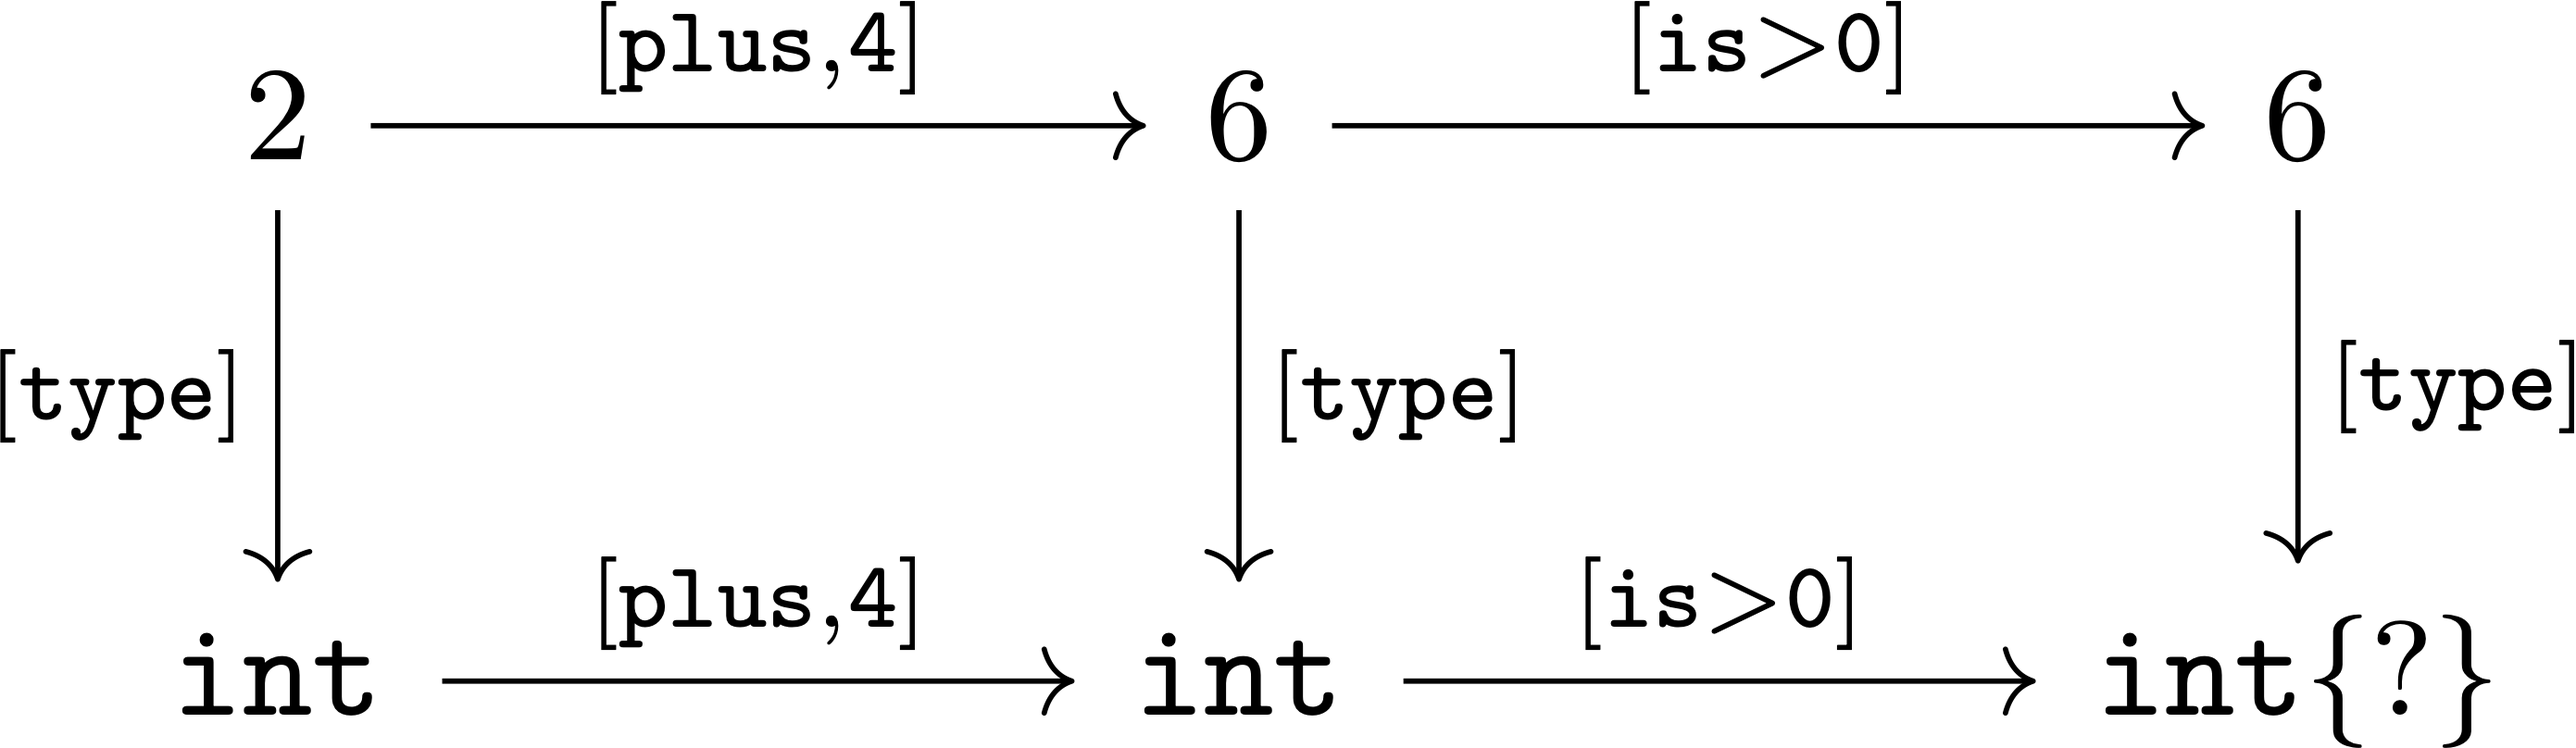
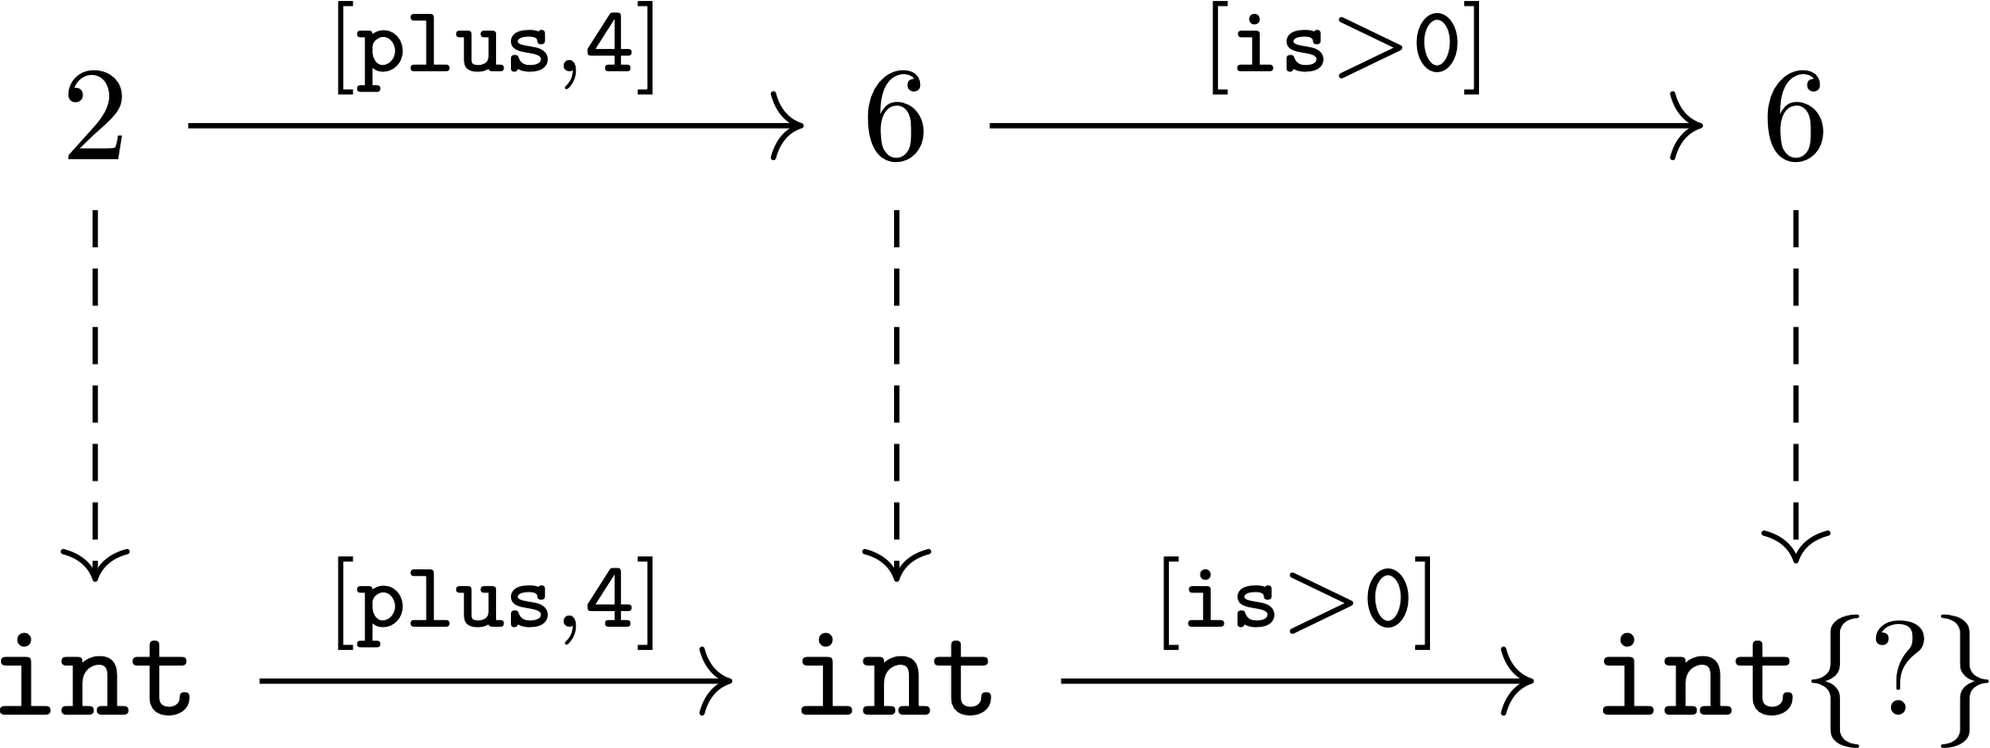
documentation deployed to gh-pages

diff --git a/index.html b/index.html
@@ -1301,7 +1301,7 @@ mmlang&gt; 2[plus,4][is&gt;0][type]
 <i class="fa icon-note" title="Note"></i>
 </td>
 <td class="content">
-<span class="image right"><img src="./images/language/type-value-trace-short.png" alt="type value trace short" width="400"></span> In the diagram above, the type vertices are elements of a <a href="https://en.wikipedia.org/wiki/Free_algebra">free algebra</a> called the <code>inst</code> monoid. However, in order to present more complex <a href="https://en.wikipedia.org/wiki/Commutative_diagram">diagrams</a>, vertex labels can be shortened to type&#8217;s canonical range type. With this convention, there is no loss of information. The full definition can be unambiguously deduced by concatenating the instructions encountered on the edges of the inverted path from the current <em>range</em> vertex to the root <em>domain</em> vertex (i.e. the base canonical type of the type induction). The above diagram&#8217;s more concise representation is on the right. All subsequent diagrams will follow this convention.
+<span class="image right"><img src="./images/language/type-value-trace-short.png" alt="type value trace short" width="300"></span> In the diagram above, the type vertices are elements of a <a href="https://en.wikipedia.org/wiki/Free_algebra">free algebra</a> called the <code>inst</code> monoid. However, in order to present more complex <a href="https://en.wikipedia.org/wiki/Commutative_diagram">diagrams</a>, vertex labels will be shortened to the type&#8217;s canonical range type. With this convention, there is no loss of information. The full definition can be unambiguously determined by concatenating the instructions encountered on the edges of the inverted path from the current <em>range</em> vertex to the root <em>domain</em> vertex (i.e. the base canonical type of the type induction). Furthermore, dashed arrows will replace <code>[type]</code>-labeled arrows. All subsequent diagrams will follow this convention.
 </td>
 </tr>
 </table>
@@ -2052,6 +2052,18 @@ mmlang&gt; ([is,[eq,'a']]-&gt;1,[is,[eq,'b']]-&gt;2,[is,[eq,'c']]-&gt;3)        
 </tr>
 </table>
 </div>
+<div class="admonitionblock note">
+<table>
+<tr>
+<td class="icon">
+<i class="fa icon-note" title="Note"></i>
+</td>
+<td class="content">
+A <code>rec</code> offers no expressivity gains over 2-term <code>lsts</code> of <code>lst</code>. It is provided as a base data type for convenience.
+</td>
+</tr>
+</table>
+</div>
 <div class="paragraph">
 <p>In the examples below, the value 3 is <code>[split]</code> (<code>-&lt;</code>) across the respective <code>poly</code> terms.</p>
 </div>
@@ -2096,7 +2108,7 @@ mmlang&gt; 3-&lt;([plus,1];[mult,2])&gt;-   <i class="conum" data-value="3"></i>
 </div>
 </div>
 <div class="paragraph">
-<p>The "split-merge" pattern <code>-&lt;()&gt;-</code> is common enough that a unified instruction exists.</p>
+<p>The "split-merge" pattern <code>-&lt;()&gt;-</code> is common enough to warrant a unified instruction.</p>
 </div>
 <div class="listingblock">
 <div class="content">
@@ -2138,29 +2150,38 @@ The <code>[split]</code> (<code>-&lt;</code>) instruction creates a <code>poly</
 </div>
 <div class="sect4">
 <h5 id="_orthen_poly">orThen ,-poly</h5>
+<div class="imageblock text-center">
+<div class="content">
+<img src="./images/language/comma-poly-example.png" alt="comma poly example" width="350">
+</div>
+</div>
 <div class="paragraph">
-<p>A <code>,-poly</code> is a polynomial ring with <a href="https://en.wikipedia.org/wiki/Commutative_property">commutative</a> addition defined as</p>
+<p>A <code>,-poly</code> is a classic polynomial ring with a free additive abelian group and a non-free multiplicative monoid. If \$a,b \in \tt{obj}\$ with associated quantifies \$q_i \in Q\$, then addition is defined as</p>
 </div>
 <div class="paragraph">
 <p>\[
-\texttt{t0{q0},t1{q1}} = \begin{cases}
-\texttt{t0\{q0+q1\}} &amp; \text{if } \texttt{t0==t1}, \\ \texttt{t0{q0},t1{q1}} &amp; \text{otherwise.} \end{cases}
+a\{ q_0 \},b\{ q_1 \} =
+\begin{cases}
+  a\{q_0+q_1\} &amp; \text{if } a==b, \\
+  a\{ q_0 \},b\{ q_1 \} &amp; \text{otherwise.}
+\end{cases}
 \]</p>
 </div>
 <div class="paragraph">
-<p>If the indeterminates of two terms are equal, then they can be merged by summing their coefficients.
-In the lexicon of mm-ADT, if two types are equal, then their quantifiers can be summed using the additive operator of the respective quantifier ring.
-Within the category of the <code>inst</code> monoid, the following <code>mmlang</code> examples highlight the salient features of <code>|-poly</code> addition.</p>
+<p>Given the commutative nature of the abelian group, any two equal terms (ignoring quantification) can be <strong>bulked</strong> by summing their quantifiers using the additive operator of the corresponding quantifier ring. The <a href="https://en.wikipedia.org/wiki/Commutative_diagram">commuting diagram</a> below relates the 3 following <code>mmlang</code> examples, where \$\Delta\$ is <code>[split]</code> and \$\nabla\$ is <code>[merge]</code>.</p>
+</div>
+<div class="imageblock text-center">
+<div class="content">
+<img src="./images/language/comma-lst-tensor-example.png" alt="comma lst tensor example" width="700">
+</div>
 </div>
 <div class="listingblock">
 <div class="content">
-<pre class="CodeRay highlight"><code data-lang="mmlang">mmlang&gt; 'mar'[[plus,'ko'],[plus,'ko']]      <i class="conum" data-value="1"></i><b>(1)</b>
+<pre class="CodeRay highlight"><code data-lang="mmlang">mmlang&gt; 'mar'[[plus,'ko'],[plus,'ko']]    <i class="conum" data-value="1"></i><b>(1)</b>
 ==&gt;'marko'{2}
-mmlang&gt; 'mar'[[plus,'ko']{2}]               <i class="conum" data-value="2"></i><b>(2)</b>
+mmlang&gt; 'mar'[[plus,'ko']{2}]             <i class="conum" data-value="2"></i><b>(2)</b>
 ==&gt;'marko'{2}
-mmlang&gt; 'mar'[plus,'ko']{2}                 <i class="conum" data-value="3"></i><b>(3)</b>
-==&gt;'marko'{2}
-mmlang&gt; 'marko'{2}                          <i class="conum" data-value="4"></i><b>(4)</b>
+mmlang&gt; 'mar'[plus,'ko']{2}               <i class="conum" data-value="3"></i><b>(3)</b>
 ==&gt;'marko'{2}</code></pre>
 </div>
 </div>
@@ -2172,30 +2193,13 @@ mmlang&gt; 'marko'{2}                          <i class="conum" data-value="4"><
 </tr>
 <tr>
 <td><i class="conum" data-value="2"></i><b>2</b></td>
-<td>Branch aggregation by coefficient summation is possible because the two branches are equal.</td>
+<td>Branch aggregation by quantifier summation is possible because the two branches are equal.</td>
 </tr>
 <tr>
 <td><i class="conum" data-value="3"></i><b>3</b></td>
 <td>With only one "branch," the expression can be extracted from <code>[branch]</code>.</td>
 </tr>
-<tr>
-<td><i class="conum" data-value="4"></i><b>4</b></td>
-<td>The expression has reached a fixpoint and thus, is solved.</td>
-</tr>
 </table>
-</div>
-<div class="paragraph">
-<p>In the category <code>poly</code>, the previous <code>mmlang</code> examples are written as follows.</p>
-</div>
-<div class="listingblock">
-<div class="content">
-<pre class="CodeRay highlight"><code data-lang="mmlang">mmlang&gt; 'mar'[[plus,'ko'],[plus,'ko']]
-==&gt;'marko'{2}
-mmlang&gt; mmlang&gt; 'mar'[[plus,'ko']{2}]
-==&gt;bool{2}&lt;=mmlang[gt,'mar']-&lt;(bool{2}&lt;=bool[plus,'ko']{2})&gt;-
-mmlang&gt; [[start,'mar'][plus,'ko'],[start,'mar'][plus,'ko']]
-==&gt;'marko'{2}</code></pre>
-</div>
 </div>
 <div class="paragraph">
 <p>The last expression demonstrates a property of all rings: multiplication both right and left <a href="https://en.wikipedia.org/wiki/Distributive_property">distributes</a> over addition.
@@ -4133,7 +4137,7 @@ o1    [a,t1]                := t1(o1) != {<span style="color:#00D">0</span>}</co
 </div>
 <div id="footer">
 <div id="footer-text">
-Last updated 2020-07-13 07:30:12 -0600
+Last updated 2020-07-13 07:32:12 -0600
 </div>
 </div>
 <script type="text/x-mathjax-config">
